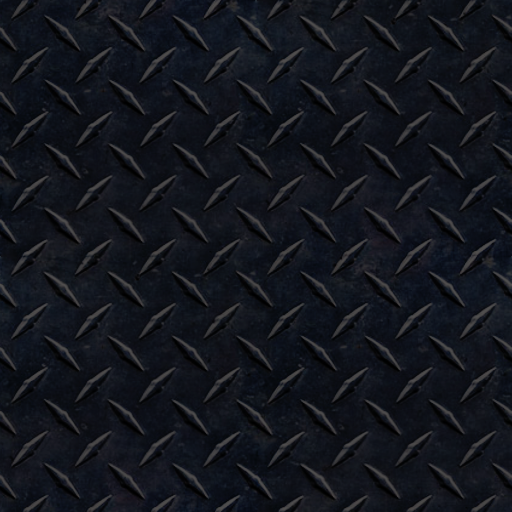
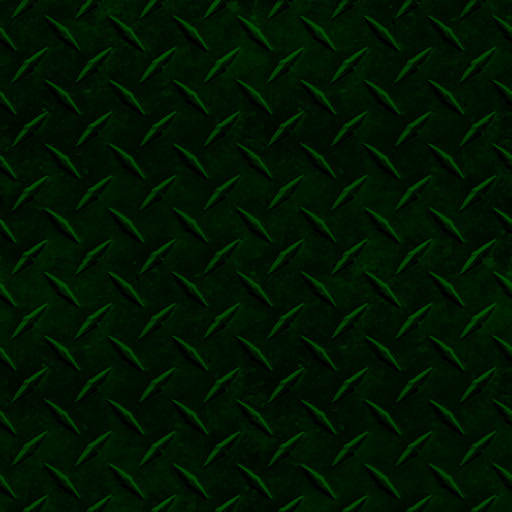
added sensor artwork

diff --git a/app/src/main/java/nodomain/yalg/GameObject.java b/app/src/main/java/nodomain/yalg/GameObject.java
@@ -18,6 +18,8 @@ public class GameObject {
     protected PointF m_Position = new PointF(0, 0);
     protected PointF m_Rotation = new PointF(1, 0);
 
+    protected float m_uvScale = 1.0f;
+
     protected PointF m_Extents = new PointF(0.2f, 0.2f);
 
     protected boolean m_IsActive = true;
@@ -55,6 +57,10 @@ public class GameObject {
     }
     PointF getDirection() {
         return m_Rotation;
+    }
+
+    public void setUVScale(float fScale) {
+        m_uvScale = fScale;
     }
 
     public void setExtents(PointF extents) {
@@ -95,9 +101,9 @@ public class GameObject {
             corners[i].y += m_Position.y;
         }
         PointF[] uvs = {new PointF(0, 0),
-                new PointF(0, 1),
-                new PointF(1, 1),
-                new PointF(1, 0)};
+                new PointF(0, m_uvScale),
+                new PointF(m_uvScale, m_uvScale),
+                new PointF(m_uvScale, 0)};
 
         writePosToBuffer(corners[0], uvs[0], 0, vertexBuffer);
         writePosToBuffer(corners[2], uvs[2], 1, vertexBuffer);
@@ -129,6 +135,9 @@ public class GameObject {
         } catch(Exception e) {
             e.printStackTrace();
         }
+
+        GLES20.glTexParameteri(GLES20.GL_TEXTURE_2D, GLES20.GL_TEXTURE_WRAP_S, GLES20.GL_REPEAT);
+        GLES20.glTexParameteri(GLES20.GL_TEXTURE_2D, GLES20.GL_TEXTURE_WRAP_T, GLES20.GL_REPEAT);
 
         GLES20.glUniform3f(laserColHandle, m_Color.getRed(), m_Color.getGreen(), m_Color.getBlue());
 

diff --git a/app/src/main/java/nodomain/yalg/TextureFactory.java b/app/src/main/java/nodomain/yalg/TextureFactory.java
@@ -31,12 +31,14 @@ public class TextureFactory {
     private int primsaID;
     private int sensorID;
     private int spiegelID;
+    private int backgroundID;
 
     public void loadTextures() {
         laserID = loadTexture(R.raw.laser);
         primsaID = loadTexture(R.raw.prisma);
         sensorID = loadTexture(R.raw.sensor);
         spiegelID = loadTexture(R.raw.spiegel);
+        backgroundID = loadTexture(R.raw.background);
     }
 
     public int getTextureByName(String name) throws Exception {
@@ -48,6 +50,9 @@ public class TextureFactory {
             return sensorID;
         if (name.equals("mirror"))
             return spiegelID;
+        if (name.equals("background"))
+            return backgroundID;
+
         throw new Exception("Could not find texture " + name + "!");
     }
 

diff --git a/app/src/main/java/nodomain/yalg/GameActivity.java b/app/src/main/java/nodomain/yalg/GameActivity.java
@@ -101,7 +101,16 @@ public class GameActivity extends Activity {
         super.onCreate(savedInstanceState);
 
         try {
-            gameObjects = LevelLoader.parse(getResources().openRawResource(R.raw.testlevel));
+            gameObjects = new ArrayList<GameObject>();
+            GameObject goBackground = new GameObject();
+
+            goBackground.setTextureName("background");
+            goBackground.setExtents(new PointF(2.0f, 2.0f));
+            goBackground.setUVScale(4.0f);
+
+            gameObjects.add(goBackground);
+
+            gameObjects.addAll(LevelLoader.parse(getResources().openRawResource(R.raw.testlevel)) );
             System.out.println("Read " + gameObjects.size() + " objects.");
         } catch (XmlPullParserException e) {
             e.printStackTrace();
